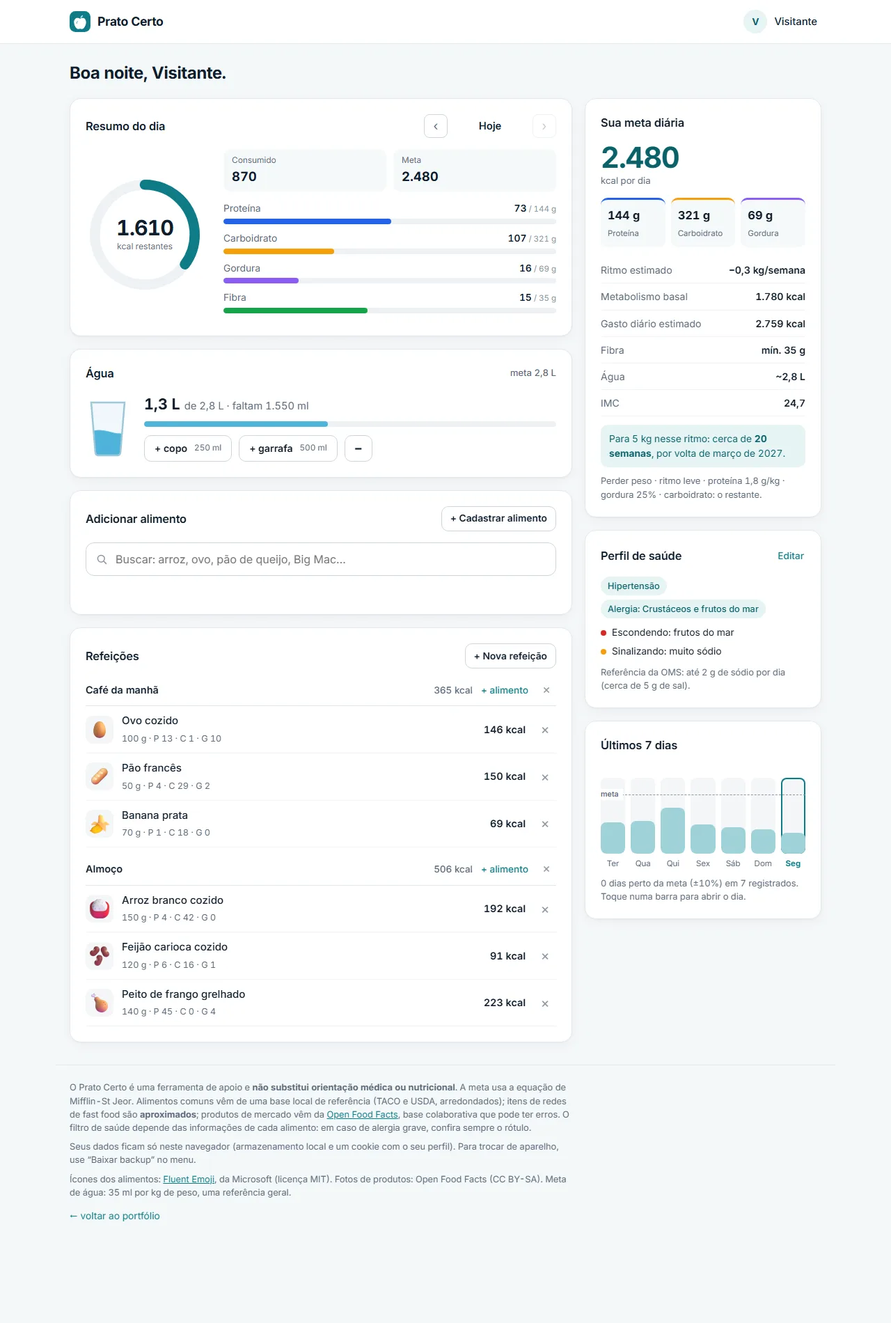
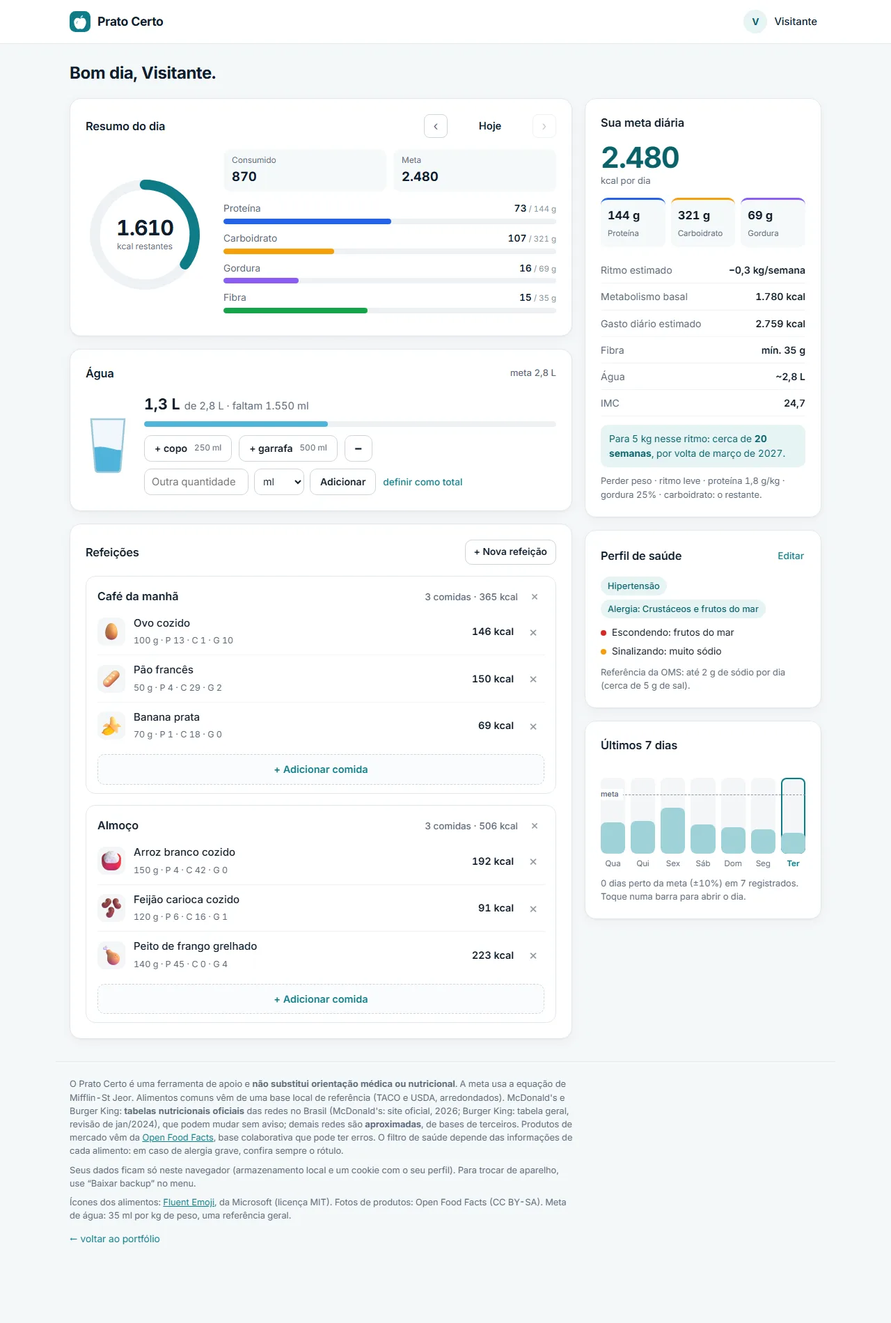
Prato Certo: official McDonald's and Burger King nutrition data
- 56 McDonald's items from the official Brazilian site (archived copies, 2026)
  and 48 Burger King items from its official nutrition table (rev. Jan 2024),
  plus 11 approximate items from other chains (third-party data, flagged).
- Every item checked: kcal within 15% of 4P + 4C + 9F.
- Items without a published weight count per unit only; badges show
  'tabela oficial' or 'aprox.'; values shown per unit.
- Health tags from the chains' allergen info; high sodium (600 mg) and sugar flagged.
- Replaces the earlier approximate chain items.

diff --git a/ferramentas/prato-certo/js/alimentos.js b/ferramentas/prato-certo/js/alimentos.js
@@ -136,26 +136,175 @@ var Alimentos = (function () {
     };
   });
 
-  /* Redes de fast food. ATENÇÃO: não achei tabela oficial brasileira acessível;
-     estes são valores APROXIMADOS por unidade vendida, tirados de bases públicas
-     de terceiros (variam de uma fonte para outra) e do cardápio dos EUA.
-     Servem de estimativa. Para o número exato, cadastre o item pela foto da
-     tabela nutricional (Meus alimentos).
-     Formato: [rede, item, kcal, prot, carb, gord, gramas da unidade] — por unidade. */
-  var REDES = [
-    ["McDonald's", 'Big Mac', 563, 25.9, 44.0, 32.8, 215],
-    ["McDonald's", 'Cheeseburger', 300, 15.0, 32.0, 13.0, 115],
-    ["McDonald's", 'McNuggets (10 unidades)', 410, 23.0, 26.0, 25.0, 162],
-    ["McDonald's", 'Batata frita média', 320, 5.0, 43.0, 15.0, 111],
-    ['Burger King', 'Whopper', 677, 31.0, 51.0, 40.0, 361],
-    ['Pizza Hut', 'Pizza de brigadeiro (1 fatia)', 198, 4.0, 34.0, 4.0, 68],
-    ['Subway', 'Sanduíche de peru 15 cm', 280, 18.0, 46.0, 3.5, 220]
-  ].map(function (r, i) {
-    var k = 100 / r[6];
+  /* Redes de fast food — valores POR UNIDADE VENDIDA.
+     McDonald's: tabela do site oficial brasileiro (cópias de jan–set/2026 no Web Archive;
+       o site quase nunca informa o peso, então esses itens contam por unidade).
+     Burger King: PDF oficial "Tabela Nutricional Geral" (bk-media.burgerking.com.br, revisão jan/2024).
+     Demais redes: bases de terceiros (FatSecret Brasil), marcadas como aproximadas.
+     Todos conferidos: kcal ≈ 4·prot + 4·carb + 9·gord (até 15%).
+     Formato: [rede, item, gramas (0 = não informado), kcal, prot, carb, gord, fibra, sódio mg,
+               'o' oficial | 't' terceiros, alérgenos/composição] */
+  var REDES_DADOS = [
+    ["McDonald's", 'Big Mac', 0, 524, 26, 43, 27, 1.9, 928, 'o', 'gluten leite ovo soja carne'],
+    ["McDonald's", 'Quarterão com Queijo', 0, 566, 32, 39, 31, 2.8, 1052, 'o', 'gluten leite ovo soja carne'],
+    ["McDonald's", 'Duplo Quarterão', 0, 836, 52, 39, 52, 3.2, 1257, 'o', 'gluten leite ovo soja carne'],
+    ["McDonald's", 'McNífico Bacon', 0, 595, 32, 40, 34, 4, 1101, 'o', 'gluten leite ovo soja carne'],
+    ["McDonald's", 'Cheeseburger', 0, 291, 15, 30, 12, 1.7, 647, 'o', 'gluten leite ovo soja carne'],
+    ["McDonald's", 'Hamburger', 101, 242, 13, 29, 8, 1.7, 469, 'o', 'gluten leite ovo soja carne'],
+    ["McDonald's", 'Duplo Cheeseburger', 0, 428, 25, 31, 22, 2, 963, 'o', 'gluten leite carne'],
+    ["McDonald's", 'Cheddar McMelt', 0, 509, 29, 33, 29, 3.2, 906, 'o', 'gluten leite ovo soja carne'],
+    ["McDonald's", 'Duplo Cheddar McMelt', 0, 854, 52, 36, 56, 4.7, 1482, 'o', 'gluten leite ovo soja carne'],
+    ["McDonald's", 'Duplo Burger Bacon', 0, 441, 27, 35, 22, 2.6, 958, 'o', 'gluten leite ovo soja carne'],
+    ["McDonald's", 'Triplo Burger', 0, 549, 34, 36, 29, 3, 1152, 'o', 'gluten leite ovo soja carne'],
+    ["McDonald's", 'Tasty Turbo 1 carne', 0, 800, 36, 41, 55, 3.9, 851, 'o', 'gluten leite ovo soja carne'],
+    ["McDonald's", 'Tasty Turbo Bacon 1 carne', 0, 888, 43, 41, 61, 4, 1358, 'o', 'gluten leite ovo soja carne'],
+    ["McDonald's", 'McChicken', 0, 403, 17, 42, 18, 3, 712, 'o', 'gluten leite ovo soja carne'],
+    ["McDonald's", 'McChicken Bacon', 0, 409, 18, 42, 19, 2.9, 778, 'o', 'gluten leite ovo soja carne'],
+    ["McDonald's", 'McChicken Duplo', 0, 665, 31, 53, 36, 4.2, 1408, 'o', 'gluten leite ovo soja carne'],
+    ["McDonald's", 'Chicken Jr.', 171, 349, 12, 43, 15, 2.4, 739, 'o', 'gluten leite ovo soja carne'],
+    ["McDonald's", 'McCrispy Chicken Deluxe', 303, 593, 32, 53, 28, 4.8, 1125, 'o', 'gluten leite ovo soja carne'],
+    ["McDonald's", 'McCrispy Chicken Legend', 0, 900, 37, 65, 55, 4.3, 1636, 'o', 'gluten leite ovo soja carne'],
+    ["McDonald's", 'McCrispy Chicken Bacon Ranch', 0, 730, 35, 65, 37, 5.4, 1567, 'o', 'gluten leite ovo soja carne'],
+    ["McDonald's", 'Chicken Cheddar McMelt', 0, 391, 19, 41, 19, 3.4, 938, 'o', 'gluten leite ovo soja carne'],
+    ["McDonald's", 'McFish', 0, 391, 17, 39, 19, 1.9, 819, 'o', 'gluten leite ovo soja peixe'],
+    ["McDonald's", 'Chicken McNuggets 4 unidades', 64, 155, 9.1, 10, 8.6, 0.77, 300, 'o', 'gluten leite soja carne'],
+    ["McDonald's", 'Chicken McNuggets 6 unidades', 0, 232, 14, 16, 13, 1.2, 450, 'o', 'gluten leite soja carne'],
+    ["McDonald's", 'Chicken McNuggets 10 unidades', 0, 387, 23, 26, 21, 1.9, 750, 'o', 'gluten leite soja carne'],
+    ["McDonald's", 'Chicken McNuggets 15 unidades', 0, 581, 34, 39, 32, 2.9, 1126, 'o', 'gluten leite soja carne'],
+    ["McDonald's", 'Batata P', 0, 171, 2, 25, 7, 2, 174, 'o', 'soja'],
+    ["McDonald's", 'McFritas Média', 0, 295, 4.8, 35, 15, 4.1, 262, 'o', 'soja'],
+    ["McDonald's", 'McFritas Grande', 0, 422, 6.9, 50, 22, 5.8, 375, 'o', 'soja'],
+    ["McDonald's", 'McFritas Kids', 0, 92, 1.5, 11, 4.7, 1.3, 82, 'o', 'soja'],
+    ["McDonald's", 'McFritas Cheddar Bacon', 0, 431, 12, 38, 26, 4.2, 996, 'o', 'leite ovo soja carne'],
+    ["McDonald's", 'Casquinha Baunilha', 0, 170, 3.2, 31, 3.9, 0.37, 62, 'o', 'gluten leite'],
+    ["McDonald's", 'Casquinha Mista', 0, 167, 3.3, 30, 3.9, 0.4, 62, 'o', 'gluten leite'],
+    ["McDonald's", 'Sundae chocolate', 0, 302, 5.2, 45, 12, 2.8, 156, 'o', 'gluten leite soja amendoim'],
+    ["McDonald's", 'Sundae caramelo', 0, 307, 5.4, 51, 9.2, 0.97, 154, 'o', 'gluten leite soja amendoim'],
+    ["McDonald's", 'Sundae morango', 0, 273, 4.8, 46, 8, 0.76, 85, 'o', 'leite'],
+    ["McDonald's", 'Top Sundae chocolate', 0, 396, 6.9, 60, 14, 3.1, 193, 'o', 'gluten leite soja amendoim castanhas'],
+    ["McDonald's", "McFlurry M&M's chocolate", 0, 502, 6.2, 81, 17, 3.6, 196, 'o', 'gluten leite soja amendoim'],
+    ["McDonald's", 'McFlurry Ovomaltine Rocks chocolate', 0, 468, 5.8, 81, 13, 3.6, 254, 'o', 'gluten leite soja castanhas'],
+    ["McDonald's", 'McFlurry Ovomaltine Rocks morango', 226, 453, 5.6, 86, 9.8, 2.3, 187, 'o', 'gluten leite soja castanhas'],
+    ["McDonald's", 'McShake Ovomaltine', 0, 562, 8.3, 106, 9.7, 1.9, 259, 'o', 'gluten leite soja'],
+    ["McDonald's", 'McShake Morango', 0, 575, 8, 111, 11, 0, 213, 'o', 'gluten leite soja'],
+    ["McDonald's", 'Torta de Maçã', 0, 205, 1.8, 29, 8.9, 1, 68, 'o', 'gluten'],
+    ["McDonald's", 'Torta de Banana', 0, 198, 2.4, 26, 9.3, 1.8, 87, 'o', 'gluten'],
+    ["McDonald's", 'McColosso Chocolate', 0, 265, 4.3, 48, 6.1, 1.5, 103, 'o', 'gluten leite soja'],
+    ["McDonald's", 'Egg Burger', 0, 414, 22, 41, 18, 1.8, 635, 'o', 'gluten leite ovo soja carne'],
+    ["McDonald's", 'Egg Cheese Bacon', 0, 383, 20, 41, 16, 1.7, 942, 'o', 'gluten leite ovo soja carne'],
+    ["McDonald's", 'Queijo Quente', 0, 314, 12, 41, 11, 1.7, 719, 'o', 'gluten leite ovo soja'],
+    ["McDonald's", 'Pão de Queijo (McCafé)', 45, 136, 3.9, 15, 6.9, 0.34, 277, 'o', 'gluten leite ovo soja amendoim castanhas'],
+    ["McDonald's", 'Capuccino 300 ml', 0, 119, 6.9, 17, 2.1, 3.5, 94, 'o', 'leite soja'],
+    ["McDonald's", 'Café com Leite 300 ml', 0, 79, 6.4, 10, 1.4, 0.6, 113, 'o', 'leite'],
+    ["McDonald's", 'Chocolate Quente 300 ml', 0, 178, 12, 24, 3.4, 2.7, 175, 'o', 'leite soja'],
+    ["McDonald's", 'Coca-Cola 500 ml', 0, 209, 0, 53, 0, 0, 24, 'o', ''],
+    ["McDonald's", 'Coca-Cola 300 ml', 0, 125, 0, 32, 0, 0, 15, 'o', ''],
+    ["McDonald's", 'Coca-Cola Zero Açúcar 500 ml', 0, 0, 0, 0, 0, 0, 70, 'o', ''],
+    ["McDonald's", 'Fanta Guaraná 500 ml', 0, 200, 0, 48, 0, 0, 46, 'o', ''],
+
+    ['Burger King', 'Whopper', 364, 819, 39, 48, 51, 6, 1135, 'o', 'gluten leite ovo soja carne'],
+    ['Burger King', 'Whopper Duplo', 477, 1167, 65, 48, 76, 6, 1179, 'o', 'gluten leite ovo soja carne'],
+    ['Burger King', 'Whopper Furioso', 405, 1067, 50, 55, 64, 5, 1793, 'o', 'gluten leite ovo soja carne'],
+    ['Burger King', 'Whopper Jr.', 202, 469, 22, 31, 27, 3, 566, 'o', 'gluten leite ovo soja carne'],
+    ['Burger King', 'Whopper Barbecue Bacon', 216, 579, 27, 41, 33, 3, 1239, 'o', 'gluten leite soja carne'],
+    ['Burger King', 'Whopper Rodeio', 279, 765, 20, 83, 39, 7, 2233, 'o', 'gluten leite soja carne'],
+    ['Burger King', 'Whopper de Plantas', 333, 702, 26, 54, 42, 11, 1707, 'o', 'gluten leite ovo soja'],
+    ['Burger King', 'Pão, Carne e Queijo', 132, 363, 21, 28, 18, 2, 379, 'o', 'gluten leite soja carne'],
+    ['Burger King', 'Cheeseburger', 158, 408, 22, 31, 20, 2, 723, 'o', 'gluten leite soja carne'],
+    ['Burger King', 'Cheeseburger Bacon', 165, 467, 27, 30, 25, 2, 958, 'o', 'gluten leite soja carne'],
+    ['Burger King', 'Cheddar', 148, 378, 19, 30, 19, 2, 525, 'o', 'gluten leite soja carne'],
+    ['Burger King', 'Cheddar Duplo', 229, 607, 35, 32, 36, 2, 690, 'o', 'gluten leite soja carne'],
+    ['Burger King', 'Big King', 266, 739, 35, 44, 46, 2, 1038, 'o', 'gluten leite soja carne'],
+    ['Burger King', 'Stacker Duplo Bacon', 249, 864, 49, 46, 53, 1, 1685, 'o', 'gluten leite ovo soja carne'],
+    ['Burger King', 'Stacker Triplo', 493, 1675, 108, 47, 113, 4, 2274, 'o', 'gluten leite ovo soja carne'],
+    ['Burger King', 'Mega Stacker 2.0', 409, 1311, 75, 50, 87, 4, 2117, 'o', 'gluten leite ovo soja carne'],
+    ['Burger King', 'Mega Stacker 3.0', 587, 1913, 113, 54, 134, 4, 3212, 'o', 'gluten leite ovo soja carne'],
+    ['Burger King', 'Mega Stacker Cheddar 2.0', 416, 1274, 73, 51, 84, 4, 2020, 'o', 'gluten leite ovo soja carne'],
+    ['Burger King', 'BK Original', 238, 714, 39, 32, 50, 4, 811, 'o', 'gluten leite soja carne'],
+    ['Burger King', 'Rodeio', 174, 588, 23, 50, 32, 3, 1252, 'o', 'gluten leite soja carne'],
+    ['Burger King', 'Chicken Jr.', 154, 345, 16, 35, 16, 3, 733, 'o', 'gluten leite ovo soja carne'],
+    ['Burger King', 'BK Chicken Crispy', 170, 406, 19, 42, 18, 1, 944, 'o', 'gluten leite ovo soja carne'],
+    ['Burger King', 'Chicken Duplo', 231, 591, 28, 45, 33, 4, 1339, 'o', 'gluten leite ovo soja carne'],
+    ['Burger King', 'BK Chicken 4 unidades', 74, 149, 9, 13, 7, 1, 296, 'o', 'gluten leite soja carne'],
+    ['Burger King', 'BK Chicken 6 unidades', 111, 223, 14, 20, 10, 1, 444, 'o', 'gluten leite soja carne'],
+    ['Burger King', 'BK Chicken 10 unidades', 186, 373, 23, 33, 17, 2, 744, 'o', 'gluten leite soja carne'],
+    ['Burger King', 'Batata Frita pequena', 74, 203, 3, 24, 10, 3, 360, 'o', 'gluten'],
+    ['Burger King', 'Batata Frita média', 98, 346, 3, 27, 24, 5, 194, 'o', 'gluten'],
+    ['Burger King', 'Batata Frita grande', 142, 389, 6, 46, 20, 6, 692, 'o', 'gluten'],
+    ['Burger King', 'Balde de Batatas', 284, 778, 12, 92, 40, 12, 1384, 'o', 'gluten'],
+    ['Burger King', 'Onion Rings média', 91, 319, 5, 36, 17, 4, 570, 'o', 'gluten'],
+    ['Burger King', 'Onion Rings grande', 130, 455, 7, 52, 24, 5, 814, 'o', 'gluten'],
+    ['Burger King', 'Batata Suprema média', 221, 368, 9, 36, 20, 3, 337, 'o', 'gluten leite carne'],
+    ['Burger King', 'Casquinha de Baunilha', 119, 243, 4, 44, 6, 1, 170, 'o', 'gluten leite soja'],
+    ['Burger King', 'Casquinha Mista', 129, 254, 4, 44, 7, 1, 153, 'o', 'gluten leite soja'],
+    ['Burger King', 'Casquinha Recheada de Chocolate', 148, 451, 2, 77, 14, 0, 266, 'o', 'gluten leite soja'],
+    ['Burger King', 'Sundae de Chocolate', 163, 368, 5, 50, 16, 1, 189, 'o', 'leite soja'],
+    ['Burger King', 'Sundae de Morango', 173, 345, 5, 52, 13, 1, 129, 'o', 'leite soja'],
+    ['Burger King', 'Sundae de Doce de Leite', 180, 411, 8, 59, 16, 1, 215, 'o', 'leite soja'],
+    ['Burger King', 'BK Mix de Ovomaltine', 199, 505, 5, 72, 22, 1, 173, 'o', 'gluten leite soja'],
+    ['Burger King', 'BK Mix de Brownie', 193, 406, 6, 60, 15, 1, 199, 'o', 'gluten leite ovo soja'],
+    ['Burger King', 'Brownie de Brigadeiro', 50, 181, 3, 22, 9, 1.5, 26, 'o', 'gluten leite ovo'],
+    ['Burger King', 'Shake de Chocolate', 390, 752, 6, 122, 25, 0, 511, 'o', 'leite soja'],
+    ['Burger King', 'Shake de Morango', 345, 547, 6, 94, 16, 0, 330, 'o', 'leite soja'],
+    ['Burger King', 'Shake de Baunilha', 306, 475, 6, 76, 16, 0, 326, 'o', 'leite soja'],
+    ['Burger King', 'Baldão de Ovomaltine', 501, 1210, 12, 166, 55, 2, 456, 'o', 'gluten leite soja'],
+    ['Burger King', 'Pepsi 200 ml', 0, 87, 0, 22, 0, 0, 0, 'o', ''],
+    ['Burger King', 'Guaraná Antarctica 200 ml', 0, 80, 0, 20, 0, 0, 11, 'o', ''],
+
+    ['KFC', 'Crunch Jr', 172, 498, 13.7, 34.4, 34, 0, 0, 't', 'gluten carne'],
+    ['KFC', 'Sanduíche Filet Crocante', 211, 512, 24, 39, 32, 0, 0, 't', 'gluten carne'],
+    ['Popeyes', 'Double Cheddar', 268, 536, 35, 51, 20, 0, 0, 't', 'gluten leite carne'],
+    ['Subway', 'B.M.T. 15 cm', 225, 380, 20.3, 47.1, 12.6, 0, 0, 't', 'gluten carne'],
+    ['Subway', 'Presunto e Peito de Peru 15 cm', 245, 312, 22.1, 46.5, 4.4, 0, 0, 't', 'gluten carne'],
+    ['Pizza Hut', 'Super Fatia Pepperoni', 255, 617, 25, 73, 24, 0, 0, 't', 'gluten leite carne'],
+    ['Pizza Hut', 'Pizza de brigadeiro (1 fatia)', 68, 198, 4, 34, 4, 0, 0, 't', 'gluten leite'],
+    ["Domino's", 'Pizza Mussarela Massa Tradicional (1 fatia)', 88, 206, 8, 26, 8, 0, 0, 't', 'gluten leite'],
+    ["Domino's", 'Pizza Pepperoni Média Massa Tradicional (1 fatia)', 98, 232, 10, 26, 11, 0, 0, 't', 'gluten leite carne'],
+    ["Habib's", 'Esfiha de Carne', 75, 152, 5.5, 22, 4.6, 0, 0, 't', 'gluten carne'],
+    ['China in Box', 'Yakisoba de Frango Júnior', 400, 604, 36.5, 79, 16.9, 0, 0, 't', 'gluten soja carne']
+  ];
+
+  /* sobremesas, sorvetes, shakes e refrigerantes com açúcar: alto em açúcar pela composição */
+  var DOCE = /sundae|mcflurry|shake|casquinha|torta|colosso|mix de|brownie|bald[aã]o de|coca-cola \d|fanta|pepsi|guaran[aá]|chocolate quente|brigadeiro/i;
+
+  /* ícone de cada item de rede pelo nome */
+  function emojiRede(nome) {
+    var n = nome.toLowerCase();
+    if (/nuggets|bk chicken \d/.test(n)) return 'Poultry leg';
+    if (/fritas|batata|balde de batatas/.test(n)) return 'French fries';
+    if (/onion/.test(n)) return 'Onion';
+    if (/casquinha/.test(n)) return 'Soft ice cream';
+    if (/sundae|mcflurry|mix de|bald[aã]o/.test(n)) return 'Ice cream';
+    if (/shake/.test(n)) return 'Bubble tea';
+    if (/torta/.test(n)) return 'Pie';
+    if (/brownie|colosso/.test(n)) return 'Chocolate bar';
+    if (/capuccino|caf[eé] com leite|chocolate quente/.test(n)) return 'Hot beverage';
+    if (/coca|fanta|pepsi|guaran/.test(n)) return 'Cup with straw';
+    if (/pizza|fatia pepperoni/.test(n)) return 'Pizza';
+    if (/esfiha/.test(n)) return 'Flatbread';
+    if (/yakisoba/.test(n)) return 'Takeout box';
+    if (/p[aã]o de queijo/.test(n)) return 'Bread';
+    if (/queijo quente|15 cm|sandu[ií]che|mcfish|chicken jr|crispy|mcchicken|chicken cheddar|chicken duplo|crunch|filet/.test(n)) return 'Sandwich';
+    return 'Hamburger';
+  }
+
+  var REDES = REDES_DADOS.map(function (r, i) {
+    var ml = /(\d+)\s*ml/i.exec(r[1]);
+    var peso = r[2] || (ml ? +ml[1] : 0);   /* bebida: 1 ml ≈ 1 g */
+    var base = peso || 100;                  /* sem peso informado: valores guardados "por unidade" */
+    var k = 100 / base;
+    var marcas = r[10] ? r[10].split(' ') : [];
+    /* sódio: ≥ 600 mg por 100 g (lupa ANVISA) ou ≥ 600 mg na unidade (~30% do limite diário de 2 g) */
+    if (r[8] >= 600 || (peso && r[8] / peso * 100 >= 600)) marcas.push('sodio');
+    if (DOCE.test(r[1]) && r[5] > 0) marcas.push('acucar');
+    if (/leite|ovo|carne|peixe/.test(r[10])) marcas.push('animal');
     return {
-      id: 'rede-' + i, origem: 'rede', nome: r[1], marca: r[0],
-      kcal: r[2] * k, prot: r[3] * k, carb: r[4] * k, gord: r[5] * k, fibra: 0,
-      porcao: r[6], unidade: '1 unidade (' + r[6] + ' g)'
+      id: 'rede-' + i, origem: 'rede', conf: r[9] === 'o' ? 'oficial' : 'terceiros',
+      nome: r[1], marca: r[0],
+      kcal: r[3] * k, prot: r[4] * k, carb: r[5] * k, gord: r[6] * k, fibra: (r[7] || 0) * k,
+      porcao: base, semPeso: !peso,
+      unidade: !peso ? '1 unidade' : '1 unidade (' + peso + (ml ? ' ml' : ' g') + ')',
+      marcasRede: marcas, emoji: emojiRede(r[1])
     };
   });
   REDES.forEach(function (a) { LISTA.push(a); });
@@ -180,13 +329,10 @@ var Alimentos = (function () {
     'Pasta de amendoim': ['amendoim'], 'Amendoim torrado': ['amendoim'],
     'Castanha-do-pará': ['castanhas'], 'Amêndoa': ['castanhas'], 'Noz': ['castanhas'], 'Castanha de caju': ['castanhas'],
     'Tofu': ['soja'], 'Mel': ['animal', 'acucar'], 'Açúcar refinado': ['acucar'],
-    'Uva-passa': ['acucar'], 'Tâmara': ['acucar'], 'Refrigerante de cola': ['acucar'], 'Cerveja': ['alcool'],
-    /* redes: receitas padrão (pão de trigo, queijo, carne, maionese com ovo) */
-    'Big Mac': ['gluten', 'leite', 'carne', 'ovo'], 'Cheeseburger': ['gluten', 'leite', 'carne'],
-    'McNuggets (10 unidades)': ['gluten', 'carne'], 'Whopper': ['gluten', 'carne', 'ovo'],
-    'Pizza de brigadeiro (1 fatia)': ['gluten', 'leite', 'acucar'], 'Sanduíche de peru 15 cm': ['gluten', 'carne']
+    'Uva-passa': ['acucar'], 'Tâmara': ['acucar'], 'Refrigerante de cola': ['acucar'], 'Cerveja': ['alcool']
   };
-  LISTA.forEach(function (a) { a.marcas = MARCAS[a.nome] || []; });
+  /* itens de rede já trazem as marcas da própria tabela (ver REDES acima) */
+  LISTA.forEach(function (a) { a.marcas = a.marcasRede || MARCAS[a.nome] || []; });
 
   /* miniaturas: Fluent Emoji 3D (Microsoft, licença MIT), num commit fixo do
      repositório servido pelo jsDelivr. Sem ícone fiel, usa o prato genérico. */
@@ -200,7 +346,7 @@ var Alimentos = (function () {
     'Bread': ['Pão de forma integral', 'Pão de queijo'],
     'Ear of corn': ['Cuscuz de milho cozido', 'Milho verde cozido'],
     'Beans': ['Feijão carioca cozido', 'Feijão preto cozido', 'Lentilha cozida', 'Grão-de-bico cozido'],
-    'Poultry leg': ['Peito de frango grelhado', 'Coxa de frango cozida sem pele', 'McNuggets (10 unidades)'],
+    'Poultry leg': ['Peito de frango grelhado', 'Coxa de frango cozida sem pele'],
     'Cut of meat': ['Patinho grelhado', 'Alcatra grelhada', 'Carne moída refogada'],
     'Egg': ['Ovo cozido', 'Ovo cru (inteiro)', 'Clara de ovo cozida', 'Gema de ovo cozida', 'Ovo de codorna cozido'],
     'Cooking': ['Ovo frito'],
@@ -244,10 +390,7 @@ var Alimentos = (function () {
     'Flatbread': ['Tapioca (goma hidratada)'],
     'Cookie': ['Biscoito cream cracker'],
     'Fried shrimp': ['Camarão cozido'],
-    'French fries': ['Batata frita (tipo fast food)', 'Batata frita média'],
-    'Hamburger': ['Big Mac', 'Cheeseburger', 'Whopper'],
-    'Pizza': ['Pizza de brigadeiro (1 fatia)'],
-    'Sandwich': ['Sanduíche de peru 15 cm']
+    'French fries': ['Batata frita (tipo fast food)']
   };
   var ICONE_DE = {};
   Object.keys(ICONES).forEach(function (emoji) { ICONES[emoji].forEach(function (nome) { ICONE_DE[nome] = emoji; }); });
@@ -258,7 +401,7 @@ var Alimentos = (function () {
   /* ícone de um alimento pelo nome (base local); o genérico para o resto */
   function icone(nome) { return urlEmoji(ICONE_DE[nome] || GENERICO); }
   var ICONE_GENERICO = urlEmoji(GENERICO);
-  LISTA.forEach(function (a) { a.img = icone(a.nome); });
+  LISTA.forEach(function (a) { a.img = a.emoji ? urlEmoji(a.emoji) : icone(a.nome); });
 
   /* tira acento e caixa: "Pão" casa com "pao" */
   function norm(s) {

diff --git a/js/i18n.js b/js/i18n.js
@@ -254,7 +254,7 @@
       'projects.fuel.icon': 'Ethanol or petrol',
       'projects.prato.icon': 'Calorie counter',
       'projects.fuel.desc': 'An ethanol-or-petrol calculator built like a Brazilian filling station forecourt: the price board (with the tiny ⁹ at the end), a windscreen sticker holding the car’s fuel economy, and a mechanical pump whose drums roll like an odometer. Instead of the generic 70% rule, it works out the real break-even point for each car’s consumption, shows the cost per km of both fuels and how much a full tank saves. The R$ 50, 100 and 150 keys simulate the fill-up: the fuel gauge rises, the readout says how many km it buys and, if it won’t fit, the nozzle clicks off with the tank full. <em>(defaults to a 2005 VW Gol G3 1.6 with its spec-sheet consumption; you can pick another car or type in your own)</em>',
-      'projects.prato.desc': 'A calorie, nutrient and water tracker with a clinical look that can be installed on a phone as an app (a PWA with a home-screen icon that works offline). On first open the user creates a local account (the Google button is illustrative only) and answers a guided questionnaire, one question per screen with smooth transitions: sex, age, height, weight, activity, goal, the plan’s pace (light, moderate or intense, for faster gains), target weight, health conditions, allergies and diet. The app works out the basal metabolic rate with the Mifflin-St Jeor equation and a daily target for calories, protein, carbs, fat, fibre and water, with a safety floor, no deficit during pregnancy and warnings when the pace gets demanding. The health profile becomes a filter: allergies, coeliac disease, lactose intolerance and a vegetarian or vegan diet hide what the person cannot eat; diabetes and hypertension flag foods high in sugar or sodium, using Brazil’s ANVISA front-of-pack thresholds. Search covers 100+ reference foods (Brazilian TACO table and USDA) with thumbnails, approximate items from chains such as McDonald’s and Burger King, and Open Food Facts products with photos and allergens. The day starts empty and the person creates as many meals as they like; foods that cannot be found are added from a photo of the nutrition label (OCR with Tesseract in the browser, which also reads the “ALLERGENS: CONTAINS…” notice), by barcode, by typing or by duplicating a similar one. There is also water tracking with a goal, a seven-day chart and a backup file; everything stays on the device, with no server. <em>(there’s a ready-made demo to try)</em>',
+      'projects.prato.desc': 'A calorie, nutrient and water tracker with a clinical look that can be installed on a phone as an app (a PWA with a home-screen icon that works offline). On first open the user creates a local account (the Google button is illustrative only) and answers a guided questionnaire, one question per screen with smooth transitions: sex, age, height, weight, activity, goal, the plan’s pace (light, moderate or intense, for faster gains), target weight, health conditions, allergies and diet. The app works out the basal metabolic rate with the Mifflin-St Jeor equation and a daily target for calories, protein, carbs, fat, fibre and water, with a safety floor, no deficit during pregnancy and warnings when the pace gets demanding. The health profile becomes a filter: allergies, coeliac disease, lactose intolerance and a vegetarian or vegan diet hide what the person cannot eat; diabetes and hypertension flag foods high in sugar or sodium, using Brazil’s ANVISA front-of-pack thresholds. Search covers 100+ reference foods (Brazilian TACO table and USDA) with thumbnails, 100+ McDonald’s and Burger King items from the chains’ official nutrition tables, and Open Food Facts products with photos and allergens. The day starts empty and the person creates as many meals as they like, each with several foods, counted in units (2 eggs) or grams; foods that cannot be found are added from a photo of the nutrition label (OCR with Tesseract in the browser, which also reads the “ALLERGENS: CONTAINS…” notice), by barcode, by typing or by duplicating a similar one. There is also water tracking with a goal, a seven-day chart and a backup file; everything stays on the device, with no server. <em>(there’s a ready-made demo to try)</em>',
 
       'projects.automations_title': 'Automations · Power Automate',
       'projects.automations_intro': 'Automation flows built with Power Automate, integrated with other everyday tools. No interface of their own, but development all the same.',
@@ -387,7 +387,7 @@
       'projects.fuel.icon': 'Etanol o gasolina',
       'projects.prato.icon': 'Contador de calorías',
       'projects.fuel.desc': 'Calculadora de etanol o gasolina armada como el patio de una estación de servicio brasileña: el cartel de precios (con el ⁹ pequeñito), una etiqueta de parabrisas con el consumo del auto y un surtidor mecánico con tambores que giran como un odómetro. En lugar de la regla genérica del 70%, calcula el límite correcto para el consumo de cada auto, muestra el costo por km de los dos combustibles y cuánto se ahorra en un tanque lleno. Las teclas de R$ 50, 100 y 150 simulan la carga: el indicador de combustible sube, la lectura dice cuántos km rinde y, si no entra, la pistola corta con el tanque lleno. <em>(por defecto es un VW Gol G3 1.6 2005 con el consumo de la ficha técnica; se puede cambiar de auto o cargar el tuyo)</em>',
-      'projects.prato.desc': 'App de calorías, nutrientes y agua con aspecto clínico que se puede instalar en el celular como una app (PWA, con ícono en la pantalla de inicio y funcionando sin internet). Al abrirlo, la persona crea una cuenta local (el botón de Google es solo ilustrativo) y responde un cuestionario guiado, una pregunta por pantalla con transiciones suaves: sexo, edad, altura, peso, actividad, objetivo, el ritmo del plan (leve, moderado o intenso, para avances más rápidos), peso deseado, condiciones de salud, alergias y tipo de alimentación. La app calcula el metabolismo basal con la ecuación de Mifflin-St Jeor y la meta diaria de calorías, proteína, carbohidrato, grasa, fibra y agua, con piso de seguridad, sin déficit en el embarazo y avisos cuando el ritmo se vuelve exigente. El perfil de salud se vuelve filtro: alergias, celiaquía, intolerancia a la lactosa y dieta vegetariana o vegana ocultan lo que la persona no puede comer; diabetes e hipertensión señalan lo que tiene mucho azúcar o sodio, con los límites del rotulado frontal de la ANVISA de Brasil. La búsqueda reúne más de 100 alimentos de referencia (TACO brasileña y USDA) con miniaturas, ítems aproximados de cadenas como McDonald’s y Burger King y productos de Open Food Facts con foto y alérgenos. El día empieza vacío y la persona crea cuantas comidas quiera; lo que no se encuentra se registra con la foto de la tabla nutricional (OCR con Tesseract en el navegador, que también lee el aviso “ALÉRGICOS: CONTIENE…”), por código de barras, escribiendo o duplicando uno parecido. También tiene control de agua con meta, gráfico de los últimos siete días y copia de seguridad en archivo; todo queda en el dispositivo, sin servidor. <em>(hay una demostración lista para probar)</em>',
+      'projects.prato.desc': 'App de calorías, nutrientes y agua con aspecto clínico que se puede instalar en el celular como una app (PWA, con ícono en la pantalla de inicio y funcionando sin internet). Al abrirlo, la persona crea una cuenta local (el botón de Google es solo ilustrativo) y responde un cuestionario guiado, una pregunta por pantalla con transiciones suaves: sexo, edad, altura, peso, actividad, objetivo, el ritmo del plan (leve, moderado o intenso, para avances más rápidos), peso deseado, condiciones de salud, alergias y tipo de alimentación. La app calcula el metabolismo basal con la ecuación de Mifflin-St Jeor y la meta diaria de calorías, proteína, carbohidrato, grasa, fibra y agua, con piso de seguridad, sin déficit en el embarazo y avisos cuando el ritmo se vuelve exigente. El perfil de salud se vuelve filtro: alergias, celiaquía, intolerancia a la lactosa y dieta vegetariana o vegana ocultan lo que la persona no puede comer; diabetes e hipertensión señalan lo que tiene mucho azúcar o sodio, con los límites del rotulado frontal de la ANVISA de Brasil. La búsqueda reúne más de 100 alimentos de referencia (TACO brasileña y USDA) con miniaturas, más de 100 ítems de McDonald’s y Burger King con las tablas nutricionales oficiales de las cadenas y productos de Open Food Facts con foto y alérgenos. El día empieza vacío y la persona crea cuantas comidas quiera, cada una con varios alimentos, contados en unidades (2 huevos) o en gramos; lo que no se encuentra se registra con la foto de la tabla nutricional (OCR con Tesseract en el navegador, que también lee el aviso “ALÉRGICOS: CONTIENE…”), por código de barras, escribiendo o duplicando uno parecido. También tiene control de agua con meta, gráfico de los últimos siete días y copia de seguridad en archivo; todo queda en el dispositivo, sin servidor. <em>(hay una demostración lista para probar)</em>',
 
       'projects.automations_title': 'Automatizaciones · Power Automate',
       'projects.automations_intro': 'Flujos de automatización desarrollados con Power Automate, integrados con otras herramientas del día a día. Sin interfaz propia, pero desarrollo igualmente.',

diff --git a/ferramentas/prato-certo/js/app.js b/ferramentas/prato-certo/js/app.js
@@ -80,7 +80,7 @@
     return { id: txt(i.id, 40) || Math.random().toString(36).slice(2), nome: txt(i.nome, 80), marca: txt(i.marca, 60),
       gramas: faixa(i.gramas, 5000), refeicao: ID_REF.test(i.refeicao) ? i.refeicao : 'geral',
       kcal: faixa(i.kcal, 20000), prot: faixa(i.prot, 2000), carb: faixa(i.carb, 2000), gord: faixa(i.gord, 2000), fibra: faixa(i.fibra, 1000),
-      qtdUn: i.qtdUn ? faixa(i.qtdUn, 100) || null : null, un: i.qtdUn ? txt(i.un, 30) : '',
+      qtdUn: i.qtdUn ? faixa(i.qtdUn, 100) || null : null, un: i.qtdUn ? txt(i.un, 30) : '', semPeso: !!(i.semPeso && i.qtdUn),
       img: imgSegura(i.img) };
   }
   function limpoPerfil(p) {
@@ -739,6 +739,8 @@
 
   /* texto da quantidade de um item: "2 ovos… " → "2 unidades · 100 g" */
   function textoQtd(i) {
+    /* itens de rede sem peso informado mostram só a contagem ("2 unidades") */
+    if (i.semPeso) return n1(i.qtdUn) + ' ' + esc(plural(i.un || 'unidade', i.qtdUn));
     return (i.qtdUn ? n1(i.qtdUn) + ' ' + esc(plural(i.un || 'unidade', i.qtdUn)) + ' · ' : '') + n0(i.gramas) + ' g';
   }
 
@@ -956,6 +958,18 @@
   var buscaTimer = null, buscaCtl = null, ultimaBusca = '';
   var visiveis = [], mostrarEscondidos = false, ultimaLista = [];
   var ROTULO_ORIGEM = { off: 'produto', rede: 'rede · aprox.', meu: 'meu' };
+  function seloDe(a) {
+    if (a.origem === 'rede' && a.conf === 'oficial') return '<em class="selo selo--oficial">tabela oficial</em>';
+    return ROTULO_ORIGEM[a.origem] ? '<em class="selo selo--' + a.origem + '">' + ROTULO_ORIGEM[a.origem] + '</em>' : '';
+  }
+  /* rede: valores por unidade vendida; demais: por 100 g */
+  function numerosDe(a) {
+    if (a.origem === 'rede') {
+      var k = a.porcao / 100;
+      return n0(a.kcal * k) + ' kcal por unidade · P ' + n0(a.prot * k) + ' · C ' + n0(a.carb * k) + ' · G ' + n0(a.gord * k);
+    }
+    return n0(a.kcal) + ' kcal/100 g · P ' + n0(a.prot) + ' · C ' + n0(a.carb) + ' · G ' + n0(a.gord);
+  }
 
   function desenharResultados(lista) {
     ultimaLista = lista;
@@ -970,8 +984,8 @@
       var a = x.a;
       return '<li><button type="button" class="res" data-i="' + i + '">' + ico(imgDe(a)) + '<span class="res__corpo">' +
         '<span class="res__nome">' + esc(a.nome) + (a.marca ? ' <small>' + esc(a.marca) + '</small>' : '') +
-          (ROTULO_ORIGEM[a.origem] ? ' <em class="selo selo--' + a.origem + '">' + ROTULO_ORIGEM[a.origem] + '</em>' : '') + '</span>' +
-        '<span class="res__num">' + n0(a.kcal) + ' kcal/100 g · P ' + n0(a.prot) + ' · C ' + n0(a.carb) + ' · G ' + n0(a.gord) + '</span>' +
+          ' ' + seloDe(a) + '</span>' +
+        '<span class="res__num">' + numerosDe(a) + '</span>' +
         (x.av.avisos.length ? '<span class="res__aviso">⚠ ' + esc(x.av.avisos.join(' · ')) + '</span>' : '') +
         '</span></button></li>';
     }).join('');
@@ -1089,7 +1103,11 @@
     $('addIco').src = imgDe(a);
     $('addNome').textContent = a.nome + (a.marca ? ' · ' + a.marca : '');
     var un = unidadeDe(a);
-    $('addInfo').textContent = '1 ' + un + ' = ' + (un === 'porção' && a.unidade && a.unidade !== '100 g' ? a.unidade.replace(/\s*\(.*$/, '') + ', ' : '') + n0(a.porcao) + ' g';
+    $('addInfo').textContent = a.semPeso
+      ? 'Valores por unidade (a rede não informa o peso) · ' + (a.conf === 'oficial' ? 'tabela oficial' : 'aproximado')
+      : '1 ' + un + ' = ' + (un === 'porção' && a.unidade && a.unidade !== '100 g' ? a.unidade.replace(/\s*\(.*$/, '') + ', ' : '') + n0(a.porcao) + (/ ml\)/.test(a.unidade || '') ? ' ml' : ' g') +
+        (a.origem === 'rede' ? ' · ' + (a.conf === 'oficial' ? 'tabela oficial' : 'aproximado') : '');
+    $('addModoGBox').hidden = !!a.semPeso;
     $('addModoUn').textContent = plural(un, 2);
     var av = Saude.avaliar(a, regras);
     $('addAtencao').hidden = !av.avisos.length;
@@ -1129,7 +1147,7 @@
     var g = gramasAtuais();
     var q = parseFloat(String($('addQtd').value).replace(',', '.')) || 0;
     $('addUnidTxt').textContent = modoQtd === 'un'
-      ? plural(unidadeDe(escolhido), q) + (g ? ' · ' + n0(g) + ' g' : '')
+      ? plural(unidadeDe(escolhido), q) + (g && !escolhido.semPeso ? ' · ' + n0(g) + ' g' : '')
       : 'gramas' + (g && escolhido.porcao ? ' · ≈ ' + n1(g / escolhido.porcao) + ' ' + plural(unidadeDe(escolhido), g / escolhido.porcao) : '');
     if (!(g > 0)) { $('addConta').textContent = ''; return; }
     var v = Calculo.porcao(escolhido, g);
@@ -1148,6 +1166,7 @@
       id: Date.now().toString(36) + Math.random().toString(36).slice(2, 6),
       nome: escolhido.nome, marca: escolhido.marca || '', gramas: Math.round(g), refeicao: refeicaoAlvo,
       qtdUn: modoQtd === 'un' ? q : null, un: modoQtd === 'un' ? unidadeDe(escolhido) : '',
+      semPeso: !!(escolhido.semPeso && modoQtd === 'un'),
       kcal: v.kcal, prot: v.prot, carb: v.carb, gord: v.gord, fibra: v.fibra,
       img: imgSegura(escolhido.img) || (escolhido.origem === 'meu' ? Alimentos.ICONE_GENERICO : '')
     };

diff --git a/index.html b/index.html
@@ -478,7 +478,7 @@
           </div>
           <h3>Prato Certo</h3>
           <p class="project-resumo" data-i18n="projects.prato.short">App de calorias, nutrientes e água com cara de app de saúde: questionário guiado, alimentos filtrados pelo seu perfil de saúde, refeições do seu jeito e leitura da tabela nutricional por foto. Instala no celular.</p>
-          <p class="project-desc" data-i18n="projects.prato.desc" hidden>App de calorias, nutrientes e água com visual clínico, que pode ser instalado no celular como um app (PWA, com ícone na tela de início e funcionando sem internet). Ao abrir, a pessoa cria uma conta local (o botão do Google é só ilustrativo) e responde a um questionário guiado, uma pergunta por tela, com transições suaves: sexo, idade, altura, peso, atividade, objetivo, o ritmo do plano (leve, moderado ou intenso, para ganhos mais rápidos), peso desejado, condições de saúde, alergias e tipo de alimentação. O app calcula o metabolismo basal pela equação de Mifflin-St Jeor e a meta diária de calorias, proteína, carboidrato, gordura, fibra e água, com piso de segurança, sem déficit na gestação e avisos quando o ritmo fica exigente. O perfil de saúde vira filtro: alergias, doença celíaca, intolerância à lactose e dieta vegetariana ou vegana escondem da busca o que a pessoa não pode comer; diabetes e hipertensão sinalizam o que tem muito açúcar ou sódio, pelos limites da lupa da ANVISA. A busca reúne mais de 100 alimentos de referência (TACO e USDA) com miniaturas, itens aproximados de redes como McDonald’s e Burger King e produtos da Open Food Facts com foto e alérgenos. O dia começa vazio e a pessoa cria quantas refeições quiser; quem não acha um alimento cadastra pela foto da tabela nutricional (OCR com Tesseract no navegador, que também lê o aviso “ALÉRGICOS: CONTÉM…”), por código de barras, digitando ou duplicando um parecido. Ainda tem controle de água com meta, gráfico dos últimos sete dias e backup em arquivo; tudo fica no aparelho, sem servidor. <em>(tem uma demonstração pronta para testar)</em></p>
+          <p class="project-desc" data-i18n="projects.prato.desc" hidden>App de calorias, nutrientes e água com visual clínico, que pode ser instalado no celular como um app (PWA, com ícone na tela de início e funcionando sem internet). Ao abrir, a pessoa cria uma conta local (o botão do Google é só ilustrativo) e responde a um questionário guiado, uma pergunta por tela, com transições suaves: sexo, idade, altura, peso, atividade, objetivo, o ritmo do plano (leve, moderado ou intenso, para ganhos mais rápidos), peso desejado, condições de saúde, alergias e tipo de alimentação. O app calcula o metabolismo basal pela equação de Mifflin-St Jeor e a meta diária de calorias, proteína, carboidrato, gordura, fibra e água, com piso de segurança, sem déficit na gestação e avisos quando o ritmo fica exigente. O perfil de saúde vira filtro: alergias, doença celíaca, intolerância à lactose e dieta vegetariana ou vegana escondem da busca o que a pessoa não pode comer; diabetes e hipertensão sinalizam o que tem muito açúcar ou sódio, pelos limites da lupa da ANVISA. A busca reúne mais de 100 alimentos de referência (TACO e USDA) com miniaturas, mais de 100 itens de McDonald’s e Burger King com as tabelas nutricionais oficiais das redes e produtos da Open Food Facts com foto e alérgenos. O dia começa vazio e a pessoa cria quantas refeições quiser, cada uma com várias comidas, contadas em unidades (2 ovos) ou em gramas; quem não acha um alimento cadastra pela foto da tabela nutricional (OCR com Tesseract no navegador, que também lê o aviso “ALÉRGICOS: CONTÉM…”), por código de barras, digitando ou duplicando um parecido. Ainda tem controle de água com meta, gráfico dos últimos sete dias e backup em arquivo; tudo fica no aparelho, sem servidor. <em>(tem uma demonstração pronta para testar)</em></p>
           <ul class="tech-stack">
             <li>HTML5</li><li>CSS3</li><li>JavaScript</li><li>Open Food Facts API</li><li>Tesseract.js (OCR)</li><li>PWA (Service Worker)</li><li>Canvas</li><li>Fetch + AbortController</li><li>LocalStorage</li><li>Cookies</li>
           </ul>

diff --git a/ferramentas/prato-certo/index.html b/ferramentas/prato-certo/index.html
@@ -222,7 +222,7 @@
               <div class="qtd">
                 <div class="seg" role="radiogroup" aria-label="Medir em">
                   <label><input type="radio" name="addModo" value="un"><span id="addModoUn">unidades</span></label>
-                  <label><input type="radio" name="addModo" value="g"><span>gramas</span></label>
+                  <label id="addModoGBox"><input type="radio" name="addModo" value="g"><span>gramas</span></label>
                 </div>
                 <div class="qtd__linha">
                   <button type="button" class="qtd__btn" data-passo="-1" aria-label="Diminuir">−</button>
@@ -314,7 +314,7 @@
   </main>
 
   <footer class="rodape">
-    <p>O Prato Certo é uma ferramenta de apoio e <strong>não substitui orientação médica ou nutricional</strong>. A meta usa a equação de Mifflin-St Jeor. Alimentos comuns vêm de uma base local de referência (TACO e USDA, arredondados); itens de redes de fast food são <strong>aproximados</strong>; produtos de mercado vêm da <a href="https://world.openfoodfacts.org/" target="_blank" rel="noopener">Open Food Facts</a>, base colaborativa que pode ter erros. O filtro de saúde depende das informações de cada alimento: em caso de alergia grave, confira sempre o rótulo.</p>
+    <p>O Prato Certo é uma ferramenta de apoio e <strong>não substitui orientação médica ou nutricional</strong>. A meta usa a equação de Mifflin-St Jeor. Alimentos comuns vêm de uma base local de referência (TACO e USDA, arredondados). McDonald's e Burger King: <strong>tabelas nutricionais oficiais</strong> das redes no Brasil (McDonald's: site oficial, 2026; Burger King: tabela geral, revisão de jan/2024), que podem mudar sem aviso; demais redes são <strong>aproximadas</strong>, de bases de terceiros. Produtos de mercado vêm da <a href="https://world.openfoodfacts.org/" target="_blank" rel="noopener">Open Food Facts</a>, base colaborativa que pode ter erros. O filtro de saúde depende das informações de cada alimento: em caso de alergia grave, confira sempre o rótulo.</p>
     <p>Seus dados ficam só neste navegador (armazenamento local e um cookie com o seu perfil). Para trocar de aparelho, use “Baixar backup” no menu.</p>
     <p>Ícones dos alimentos: <a href="https://github.com/microsoft/fluentui-emoji" target="_blank" rel="noopener">Fluent Emoji</a>, da Microsoft (licença MIT). Fotos de produtos: Open Food Facts (CC BY-SA). Meta de água: 35 ml por kg de peso, uma referência geral.</p>
     <a class="volta" href="../../index.html#projetos">← voltar ao portfólio</a>

diff --git a/ferramentas/prato-certo/sw.js b/ferramentas/prato-certo/sw.js
@@ -4,7 +4,7 @@
    - Ícones (jsDelivr), fotos de produtos e fontes: usa a cópia guardada e atualiza por trás.
    - Busca de produtos (Open Food Facts): sempre na rede, nunca guardada.
    Ao mudar arquivos do app, suba a VERSAO para os aparelhos pegarem a atualização. */
-var VERSAO = 'prato-certo-v2';
+var VERSAO = 'prato-certo-v3';
 var APP = [
   './', './index.html', './manifest.webmanifest', './favicon.svg',
   './css/style.css',

diff --git a/ferramentas/prato-certo/css/style.css b/ferramentas/prato-certo/css/style.css
@@ -84,6 +84,7 @@ button { cursor: pointer; }
   padding: 2px 8px; border-radius: 999px; background: #eef2f6; color: var(--suave); vertical-align: middle; white-space: nowrap;
 }
 .selo--rede { background: #fff4e0; color: #9a5b00; }
+.selo--oficial { background: #e7f4f5; color: var(--primaria-escura); }
 .selo--meu { background: #e8f7ee; color: #157a3c; }
 .selo--off { background: #e8f0fe; color: #1d4ed8; }
 
